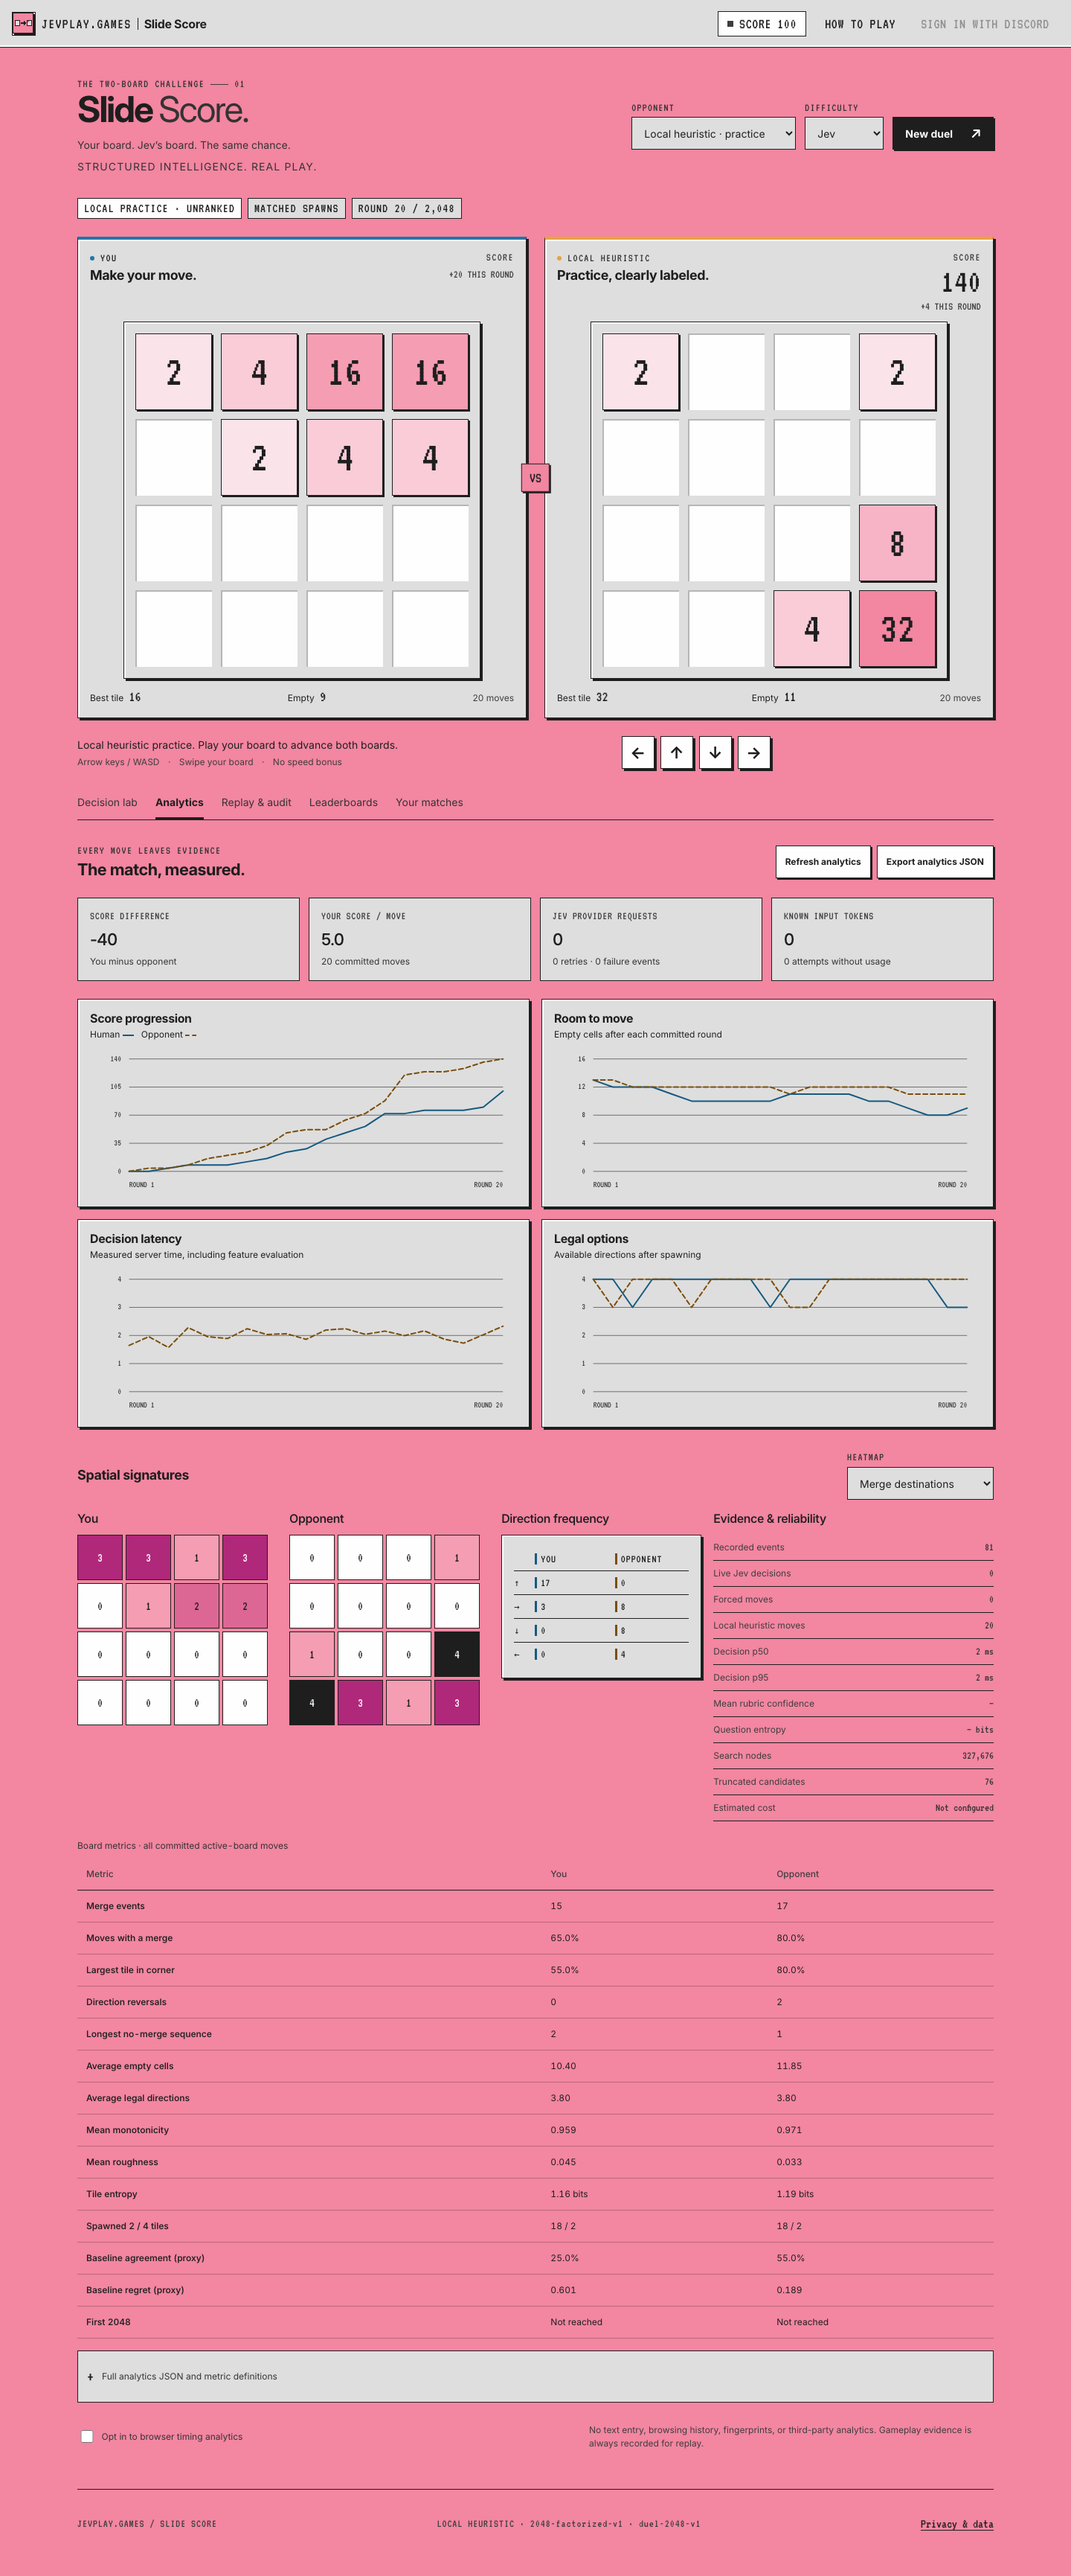
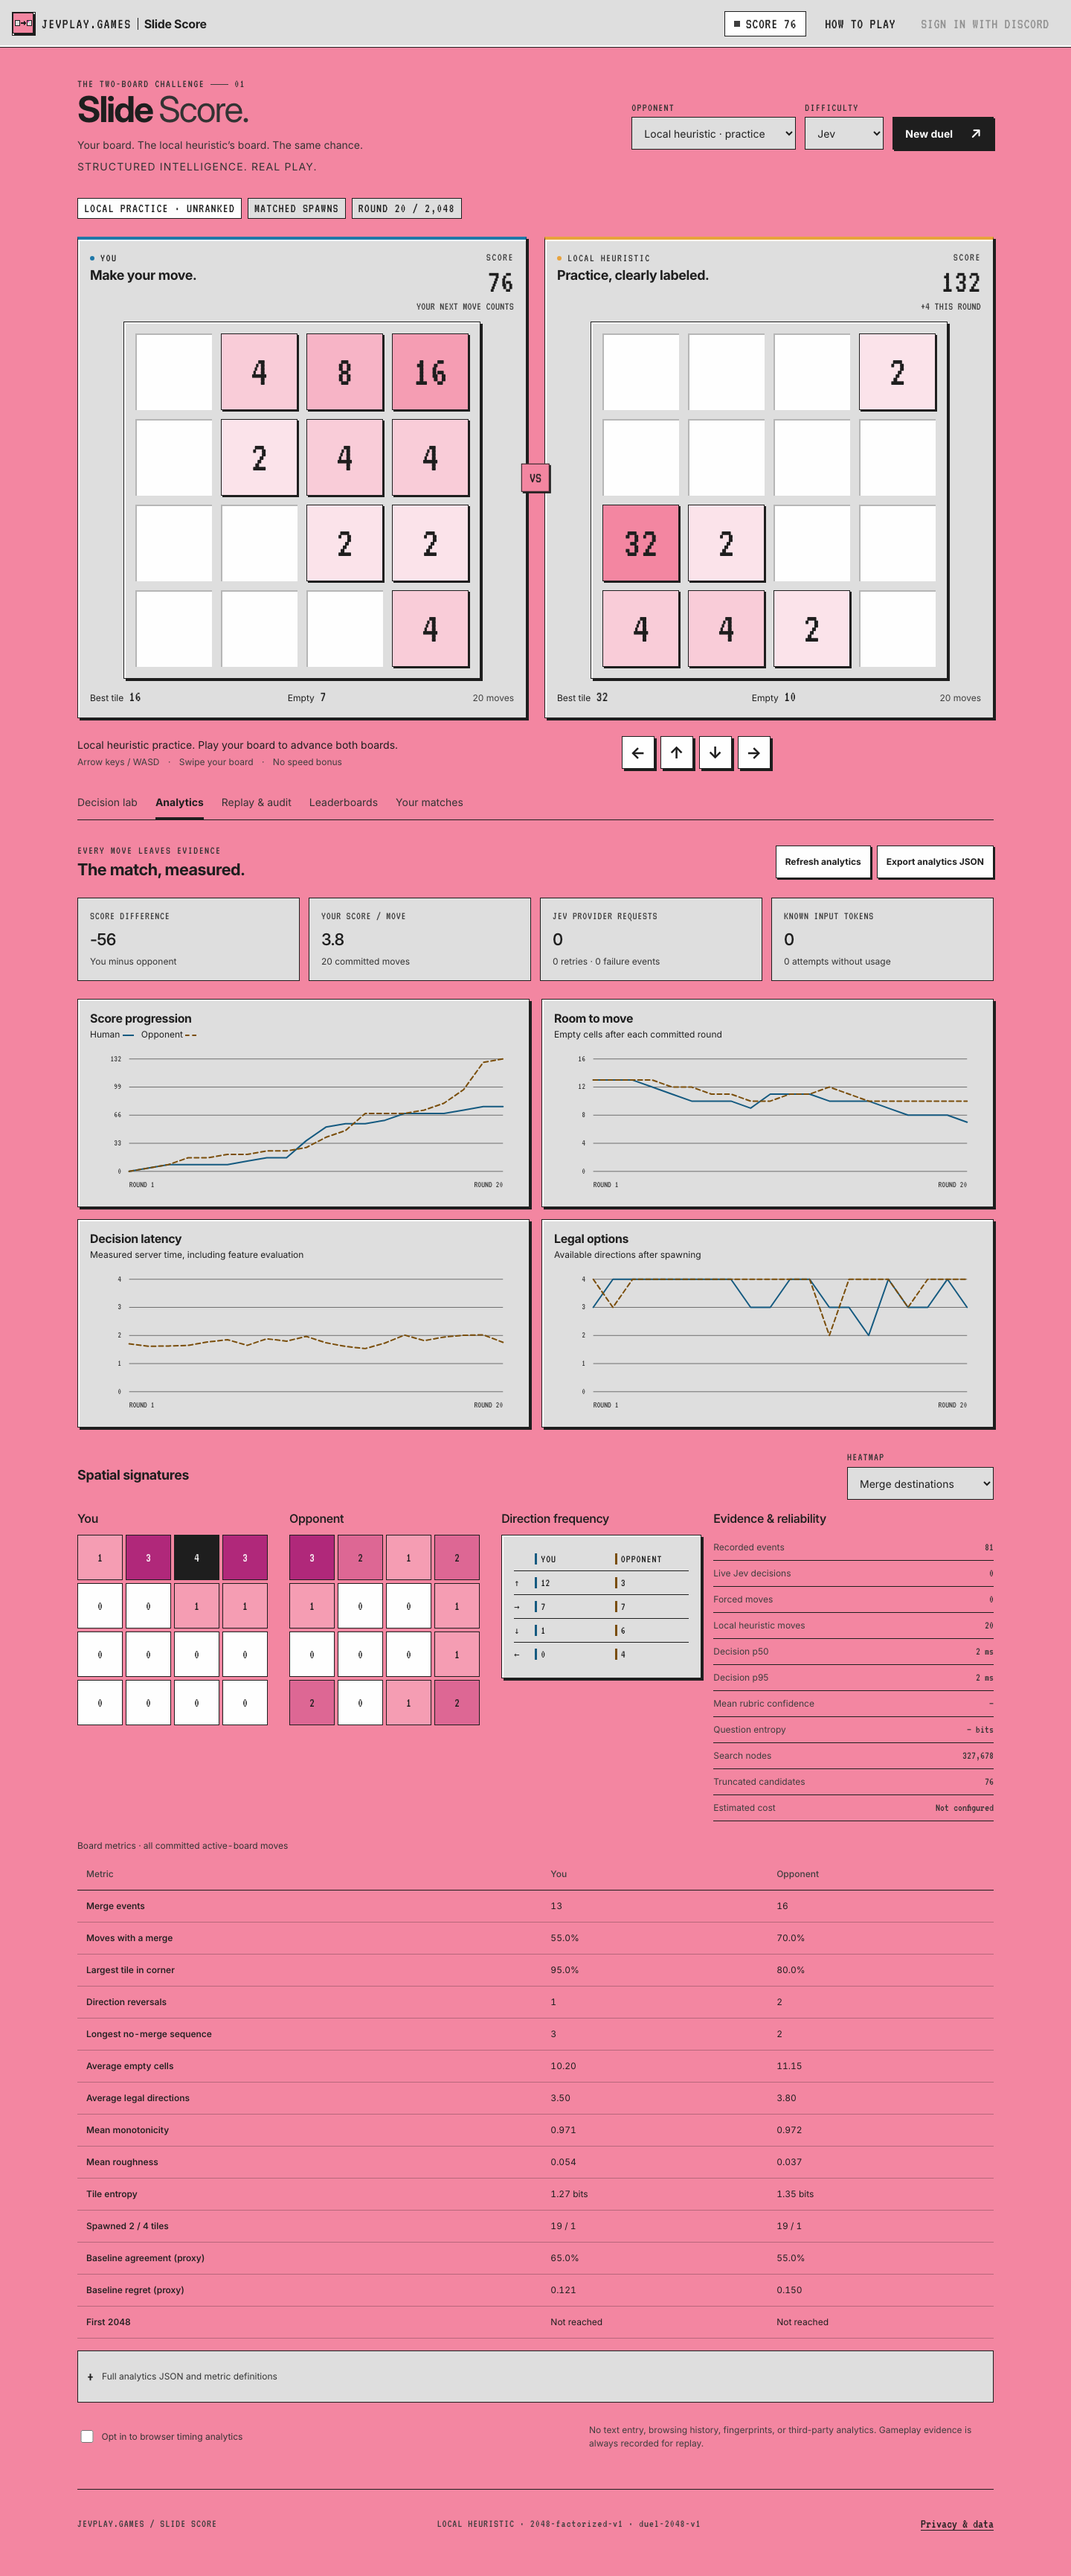
Fix verifier findings F1, F4-F7: PiP layout, context errors, copy
- F1: in the 640x360 picture-in-picture frame the arena is one column
  and the VS badge is hidden, so the board gets the whole column (268 px
  instead of 131) with no overlap; the board's height reserve covers the
  card padding so the card fits the frame (also 560x315).
- F4: a failed launch-context claim (e.g. a replayed token, 409) stays
  on screen after the match loads instead of being cleared.
- F5: when the Channel or Server leaderboard is unavailable the context
  line names that scope as UNAVAILABLE instead of keeping WORLD.
- F6: table empty-state messages sit in a span the width of the scroll
  box, pinned left, so they stay on screen at 390 px.
- F7: the hero line and the Decision lab footnote name the opponent
  actually playing (local heuristic or Jev); the human card shows its
  score and its caption changes once the board or match is finished.
- Export fields and the 'jev' actor are unchanged (owner decision OWN-2).
  Tile contrast and board alignment re-measured: unchanged.
- README screenshots retaken; SOURCE_MANIFEST, build-info, SHA256SUMS
  and the Node 22.16 test and coverage reports regenerated.

Part of #11

diff --git a/public/game.js b/public/game.js
@@ -63,6 +63,7 @@ function renderBoard(actor, board, details = null, preview = false) {
     tile.setAttribute('aria-label', `Row ${Math.floor(index / 4) + 1}, column ${index % 4 + 1}: ${value || 'empty'}`);
   });
   $(actor + '-score').textContent = fmt(board?.score || 0);
+  if (actor === 'human') $('human-card-score').textContent = fmt(board?.score || 0);
   $(actor + '-max').textContent = fmt(Math.max(...cells.map(tileValue)));
   $(actor + '-empty').textContent = cells.filter(x => !x).length;
   $(actor + '-state').textContent = board ? ({playing: `${board.moves} moves`, blocked: 'No legal moves', move_cap: 'Move limit reached'}[board.status] || board.status) : 'Ready';
@@ -77,6 +78,13 @@ function renderMatch(details = null) {
   const local = match?.mode === 'local' || (!match && $('opponent').value === 'local');
   $('opponent-label').textContent = local ? 'LOCAL HEURISTIC' : 'Jev';
   $('jev-caption').textContent = local ? 'Practice, clearly labeled.' : 'Structured, not scripted.';
+  // Copy names the opponent actually playing: local practice never claims to be Jev.
+  $('hero-line').textContent = local ? 'Your board. The local heuristic’s board. The same chance.' : 'Your board. Jev’s board. The same chance.';
+  $('decision-footnote').textContent = 'Exact mechanics are computed by the rules engine. ' + (local
+    ? 'The local heuristic ranks candidates with deterministic features and search; no model is called, so there is no rubric confidence.'
+    : 'Jev evaluates positional rubrics. Confidence describes a rubric distribution—not the chance of winning.');
+  $('human-caption').textContent = !state || (match.status === 'active' && state.human.status === 'playing') ? 'Make your move.' :
+    match.status === 'active' ? 'Your board is finished.' : 'Match over.';
   $('round-label').textContent = `ROUND ${fmt(state?.round || 0)} / ${fmt(state?.moveLimit || 2048)}`;
   $('eligibility').textContent = imported ? 'IMPORTED EVIDENCE' : match?.verified ? (match.ranked ? 'VERIFIED · RANKED' : 'VERIFIED · UNRANKED') :
     match?.ranked ? 'RANKED · DISCORD' : match ? (local ? 'LOCAL PRACTICE · UNRANKED' : 'Jev · PRACTICE · UNRANKED') : 'READY TO PLAY';
@@ -232,7 +240,11 @@ async function move(action, retry = false) {
   if (autoOpponent && match.status === 'active' && match.state.human.status !== 'playing' && !match.pending)
     setTimeout(() => move(null), 150);
 }
-function emptyRow(columns, text) { const row = document.createElement('tr'), c = cell(text); c.colSpan = columns; c.className = 'empty-state'; row.append(c); return row; }
+// The message sits in a span the width of the scroll box, so on a phone it stays on screen however wide the table is.
+function emptyRow(columns, text) {
+  const row = document.createElement('tr'), c = document.createElement('td'), message = document.createElement('span');
+  message.className = 'empty-msg'; message.textContent = text; c.append(message); c.colSpan = columns; c.className = 'empty-state'; row.append(c); return row;
+}
 function makeMetric(label, value, detail = '') {
   const node = document.createElement('div'); node.className = 'metric';
   for (const [tag, text] of [['span', label], ['strong', value], ['small', detail]]) { const child = document.createElement(tag); child.textContent = text; node.append(child); }
@@ -386,7 +398,11 @@ async function loadLeaderboard() {
       const row = document.createElement('tr'); row.append(...[entry.rank, entry.display_name, fmt(entry.human_score), fmt(entry.jev_score), fmt(entry.max_tile), entry.outcome].map(cell)); return row;
     }) : [emptyRow(6, 'No verified scores in this cohort yet. Local practice never appears here.')]));
     $('leader-context').textContent = `${leaderScope.toUpperCase()} · ${$('difficulty').value.toUpperCase()} · ${data.period === 'week' ? 'THIS WEEK (UTC)' : 'ALL TIME'} · Equal scores share a rank. Best verified score per player.`;
-  } catch (error) { $('leader-table').replaceChildren(emptyRow(6, error.message)); $('leader-more').hidden = true; }
+  } catch (error) {
+    // Say which scope failed instead of leaving the previous scope's heading in place.
+    $('leader-table').replaceChildren(emptyRow(6, error.message)); $('leader-more').hidden = true;
+    $('leader-context').textContent = `${leaderScope.toUpperCase()} · UNAVAILABLE · ${error.message}`;
+  }
 }
 async function refreshIdentity() {
   me = await api('/api/me');
@@ -512,9 +528,11 @@ async function boot() {
     }
     await refreshIdentity();
     const pendingLaunch = sessionStorage.getItem('jevLaunch');
+    // loadMatch() clears the banner, so a failed claim is shown again once the match is on screen.
+    let contextError = null;
     if (pendingLaunch && me.user) {
       try { const response = await api('/api/context', {method: 'POST', body: {launchToken: pendingLaunch}}); me.context = response.context; }
-      catch (error) { showError(error); }
+      catch (error) { contextError = `Could not claim this Discord channel launch: ${error.message}`; showError(contextError); }
       finally { sessionStorage.removeItem('jevLaunch'); }
     } else if (pendingLaunch) status('Sign in with the Discord account that launched this game to claim its channel context.');
     // Auto-start: the duel is live as soon as the page is. An active match is
@@ -525,6 +543,7 @@ async function boot() {
     // unless it really ran against the model; ranked stays gated on me.user.
     if (me.activeMatchId) await loadMatch(me.activeMatchId);
     else await startMatch();
+    if (contextError) showError(contextError);
   } catch (error) { showError(error); status('The game needs its included server. Start it with npm start, then reload this page.'); }
 }
 boot();

diff --git a/public/index.html b/public/index.html
@@ -44,7 +44,7 @@
     <main class="jv-main" id="main">
     <section class="intro jv-hero" aria-labelledby="title">
       <div class="jv-pip-hide"><div class="eyebrow">THE TWO-BOARD CHALLENGE <span class="tiny-line"></span> 01</div><h1 id="title">Slide <span>Score.</span></h1>
-      <p>Your board. Jev’s board. The same chance.</p>
+      <p id="hero-line">Your board. Jev’s board. The same chance.</p>
       <p class="hero-tagline">STRUCTURED INTELLIGENCE. REAL PLAY.</p></div>
       <div class="match-controls"><label class="select-label jv-pip-hide">OPPONENT<select id="opponent"><option value="jev">Jev · live model</option><option value="local">Local heuristic · practice</option></select></label>
       <label class="select-label jv-pip-hide">DIFFICULTY<select id="difficulty"><option value="easy">Easy</option><option value="normal">Normal</option><option value="hard">Hard</option><option value="jev" selected>Jev</option></select></label>
@@ -52,7 +52,7 @@
     </section>
     <div class="match-strip jv-pip-hide"><div class="pills"><span id="eligibility" class="pill">READY TO PLAY</span><span class="pill subdued">MATCHED SPAWNS</span><span id="round-label" class="pill subdued">ROUND 0 / 2,048</span></div></div>
     <section id="play-region" class="arena jv-first" aria-label="Slide Score game" tabindex="0">
-      <article class="jv-panel is-tight board-card is-human"><header class="board-header jv-pip-hide"><div><div class="eyebrow"><span class="status-dot human-dot"></span> YOU</div><h2>Make your move.</h2></div><div class="score-wrap"><span>SCORE</span><small id="human-gain">YOUR NEXT MOVE COUNTS</small></div></header>
+      <article class="jv-panel is-tight board-card is-human"><header class="board-header jv-pip-hide"><div><div class="eyebrow"><span class="status-dot human-dot"></span> YOU</div><h2 id="human-caption">Make your move.</h2></div><div class="score-wrap"><span>SCORE</span><strong id="human-card-score">0</strong><small id="human-gain">YOUR NEXT MOVE COUNTS</small></div></header>
         <div id="human-board" class="jv-fit jv-tray board" role="grid" aria-label="Your board"></div>
         <footer class="board-footer jv-pip-hide"><span>Best tile <strong id="human-max">—</strong></span><span>Empty <strong id="human-empty">16</strong></span><span id="human-state">Ready</span></footer>
       </article>
@@ -71,9 +71,9 @@
     <section id="decision-panel" class="detail-panel jv-pip-hide" aria-labelledby="decision-title">
       <div class="panel-heading"><div><div class="eyebrow">OBSERVE THE DECISION, NOT HIDDEN REASONING</div><h2 id="decision-title">Inside the move.</h2></div><label class="toggle"><input id="evidence-toggle" type="checkbox" checked> Show evidence</label></div>
       <div id="decision-content"><div class="decision-metrics"><div class="metric"><span>DECISION SOURCE</span><strong id="metric-source">Not started</strong></div><div class="metric"><span>LEGAL CANDIDATES</span><strong id="metric-candidates">—</strong></div><div class="metric"><span>RUBRIC CONFIDENCE</span><strong id="metric-confidence">—</strong></div><div class="metric"><span>SERVER DECISION TIME</span><strong id="metric-latency">—</strong></div></div>
-        <div class="table-scroll"><table><caption class="sr-only">Candidate move evidence. Higher model utility is preferred; confidence is not a win probability.</caption><thead><tr><th>Move</th><th>Merge gain</th><th>Empty cells</th><th>Block risk</th><th>Search value</th><th>Model utility</th><th>Confidence</th></tr></thead><tbody id="candidate-table"><tr><td colspan="7" class="empty-state">Play a move to inspect candidate features and the selected action.</td></tr></tbody></table></div>
+        <div class="table-scroll"><table><caption class="sr-only">Candidate move evidence. Higher model utility is preferred; confidence is not a win probability.</caption><thead><tr><th>Move</th><th>Merge gain</th><th>Empty cells</th><th>Block risk</th><th>Search value</th><th>Model utility</th><th>Confidence</th></tr></thead><tbody id="candidate-table"><tr><td colspan="7" class="empty-state"><span class="empty-msg">Play a move to inspect candidate features and the selected action.</span></td></tr></tbody></table></div>
         <details class="raw-evidence"><summary>Raw structured decision evidence</summary><pre id="decision-json">No decisions yet.</pre></details>
-        <p class="panel-footnote">Exact mechanics are computed by the rules engine. Jev evaluates positional rubrics. Confidence describes a rubric distribution—not the chance of winning.</p>
+        <p class="panel-footnote" id="decision-footnote">Exact mechanics are computed by the rules engine. Jev evaluates positional rubrics. Confidence describes a rubric distribution—not the chance of winning.</p>
       </div>
     </section>
     <section id="analytics-panel" class="detail-panel jv-pip-hide" hidden aria-labelledby="analytics-title">

diff --git a/public/game.css b/public/game.css
@@ -105,6 +105,11 @@ td:first-child{font-weight:550}
 td .selected-tag{margin-left:var(--s2);font:var(--fs-sm) var(--mono);border:1px solid var(--ink);border-radius:var(--radius-sm);color:var(--ink);background:var(--magenta);padding:2px var(--s1)}
 caption{text-align:left;color:var(--muted);padding:0 0 var(--s2)}
 .empty-state{text-align:center!important;color:var(--subtle);padding:var(--s6)!important;font-weight:400!important}
+/* In a scrolling table the empty message is as wide as the visible scroll box and pinned to its left edge, not centred across
+   a table wider than a phone. */
+.table-scroll{container-type:inline-size}
+.table-scroll .empty-state{padding:var(--s6) 0!important}
+.empty-msg{display:block;position:sticky;left:0;max-width:100cqw;padding-inline:var(--s4);text-align:center;white-space:normal}
 .panel-footnote{font-size:var(--fs-xs);margin-top:var(--s4);color:var(--subtle);max-width:60rem}
 .raw-evidence{margin-top:var(--s4);background:var(--surface);border:1px solid var(--line);border-radius:var(--radius-sm);padding:var(--s3)}
 .raw-evidence summary{font-size:var(--fs-xs);color:var(--muted);cursor:pointer;min-height:var(--tap);display:flex;align-items:center}
@@ -188,8 +193,9 @@ dialog .inline-controls{margin-top:var(--s5)}
 /* Picture-in-picture: brand.css hides every .jv-pip-hide. What is left is the human board, the status line and the new-duel button. */
 @media(max-height:420px) and (max-width:640px) and (min-aspect-ratio:13/10){
   .jv-main{display:grid;grid-template-columns:minmax(0,1fr) minmax(0,.85fr);grid-template-rows:auto auto;align-content:center;gap:var(--s2) var(--s3);padding-block:var(--s1)}
-  .arena{grid-column:1;grid-row:1/3;gap:0}
-  .board-card{padding:var(--s1);display:block}.board-card .board{--fit-reserve:1.25rem}
+  .arena{grid-column:1;grid-row:1/3;gap:0;grid-template-columns:minmax(0,1fr)}.versus{display:none}
+  /* The board now has the whole column, so its height (not the column) limits it: reserve the card's padding and border too. */
+  .board-card{padding:var(--s1);display:block}.board-card .board{--fit-reserve:3rem}
   .play-footer{grid-column:2;grid-row:1;align-self:end}.intro{grid-column:2;grid-row:2;padding:0;align-self:start}
   .match-controls{display:block}.play-footer{gap:var(--s1)}.play-footer p{font-size:var(--fs-2xs);line-height:1.25}.recovery{gap:var(--s1)}.intro .button{min-height:var(--tap)}
 }

diff --git a/server/build-info.js b/server/build-info.js
@@ -1,2 +1,2 @@
 // Generated by npm run fingerprint. Source paths and hashes: SOURCE_MANIFEST.json.
[2 lines of base64/hex data omitted]
